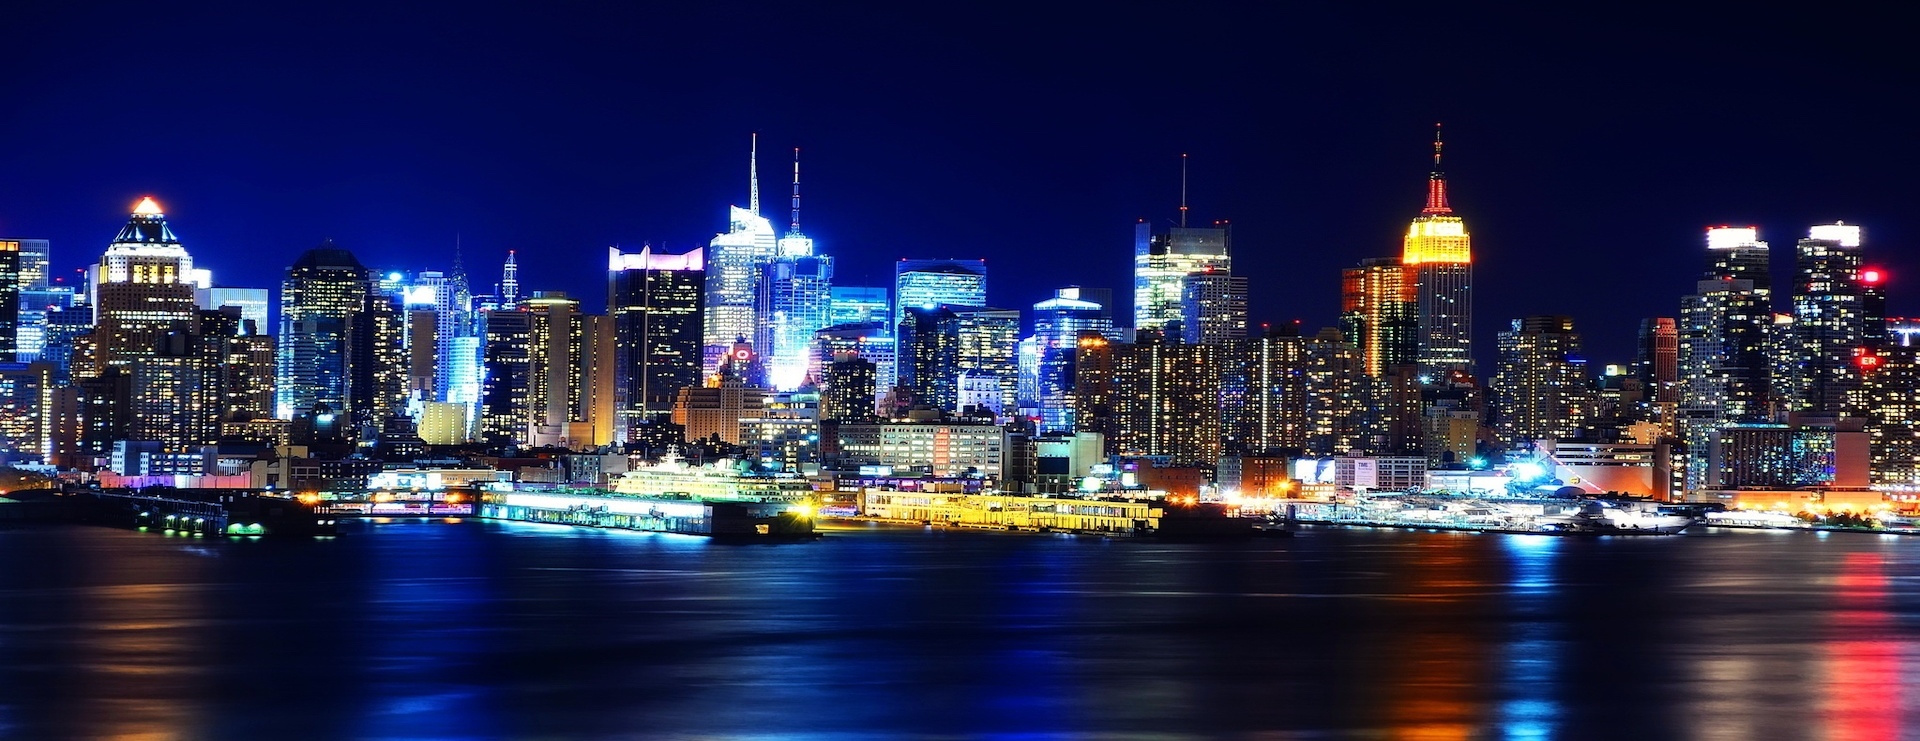
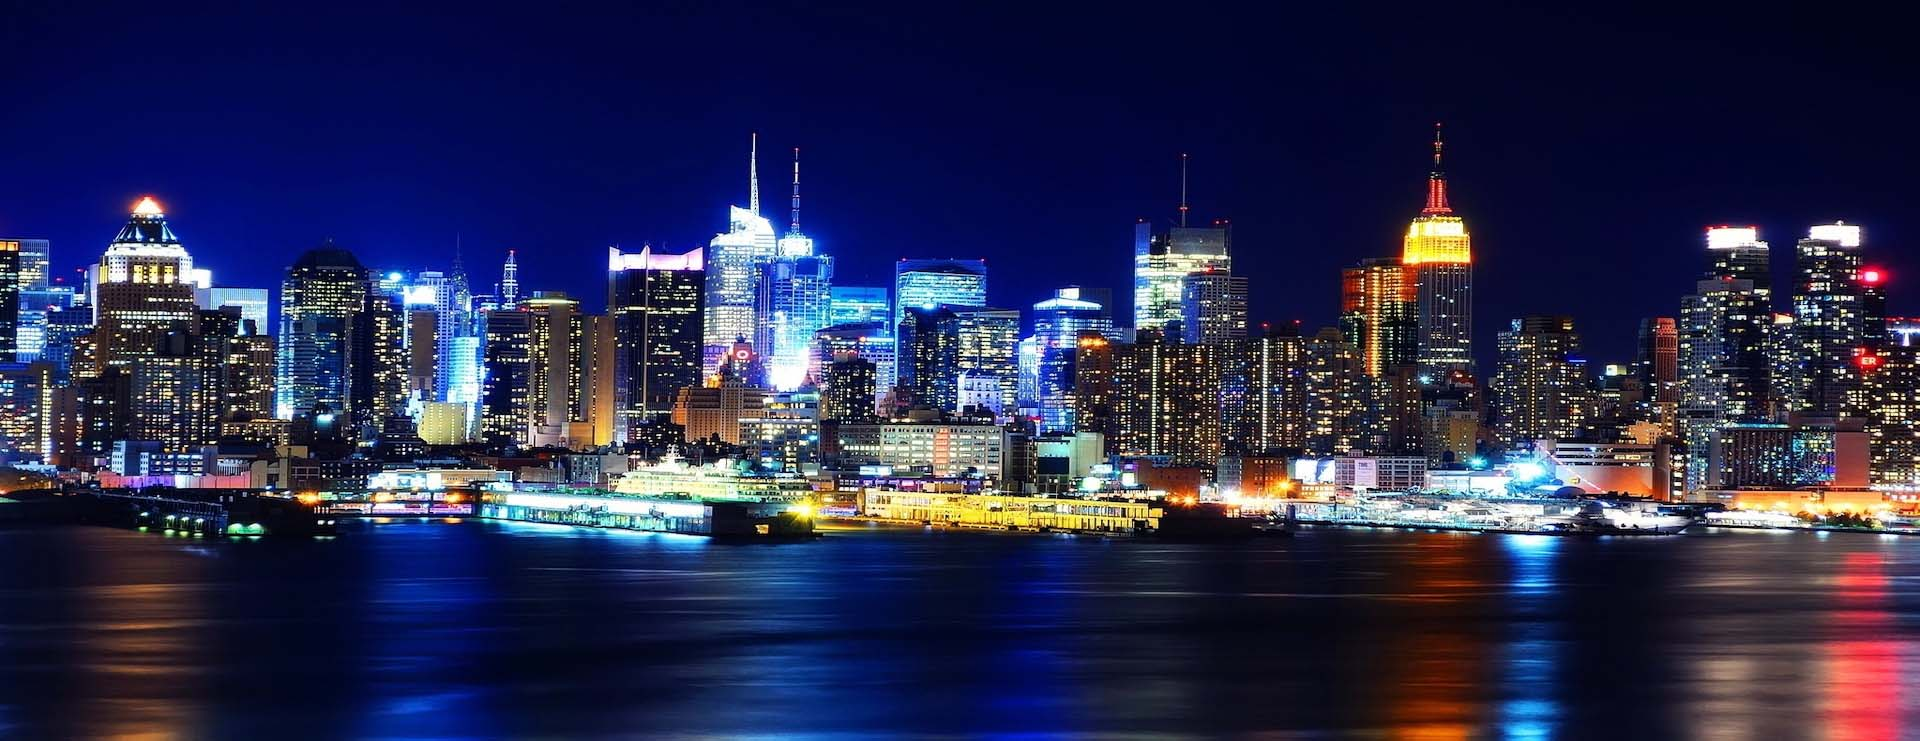
converted nyc img down to 271kb from 588kb for a faster loading experience - hopefully.

diff --git a/travel-site.html b/travel-site.html
@@ -40,7 +40,6 @@
                 <h3 class="white-text">New York City</h3>
             </div>
             <div class="carousel-responsive">
-
             </div>
           </div>
           <div class="item">
@@ -58,7 +57,7 @@
             </div>
             <div class="carousel-responsive">
           </div>
-        </div>
+        </div> <!-- end carousel-inner -->
         <!-- Controls -->
         <a class="carousel-control left" href="#main-carousel" data-slide="prev">
           <span class="icon-prev"></span> 
